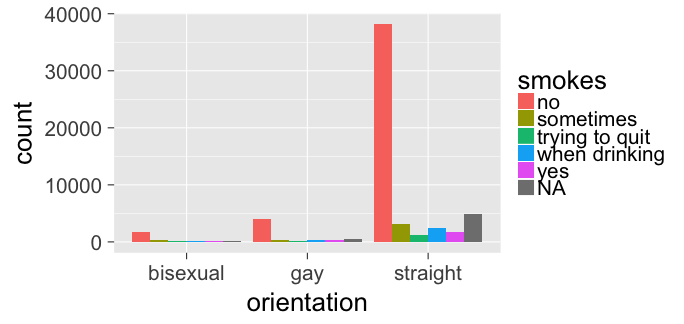
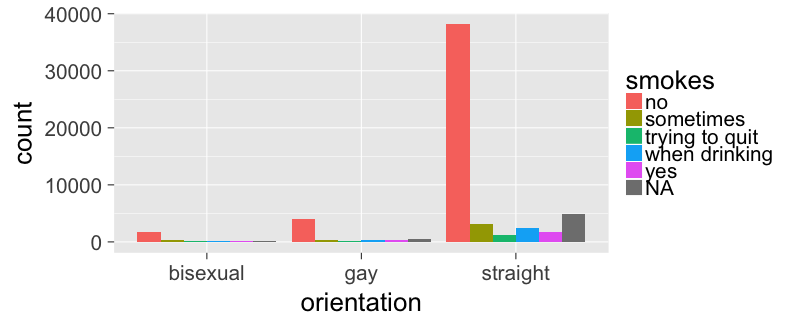
Update slides

diff --git a/docs/slides/slide_deck.html b/docs/slides/slide_deck.html
@@ -49,9 +49,11 @@ class: center, middle
 
 ---
 
+class: center, middle
+
 # Warmup in groups
 
-- Discuss the difference between the `binwidth` and `bins` arguments to `geom_histogram`
+### Discuss the difference between the `binwidth` and the `bins` arguments to `geom_histogram`
 
 ---
 
@@ -63,19 +65,15 @@ class: split-50
 
 ### At this point in the course you should only be adding these packages
 
-.column[
 ### &lt;u&gt;For functions&lt;/u&gt;
 `library(tibble)`&lt;br&gt;
 `library(ggplot2)`&lt;br&gt;
 `library(dplyr)`
-]
-.column[
-&lt;hr style="height:0pt; visibility:hidden;" /&gt;
+
 ### &lt;u&gt;For data&lt;/u&gt;
 `library(nycflights13)`&lt;br&gt;
 `library(fivethirtyeight)`&lt;br&gt;
 `library(gapminder)`
-]
 
 ---
 
@@ -101,7 +99,7 @@ ggplot(data = ______(2)___________,
 ---
 
 
-# Time slept vs day of the week for ONE professor over 100 weeks
+## Time slept vs day of the week for ONE professor over 100 weeks
 
 &lt;img src="figure/box.jpg"  width="900" height="350" alt="Sleep Boxplot"&gt;
 
@@ -204,7 +202,7 @@ Senior | 8
 ```r
 library(ggplot2)
 ggplot(data = class_df, mapping = aes(x = class)) +
-  geom_bar(fill = "black")
+  geom_bar(fill = "lightgreen", color = "black")
 ```
 
 ![](slide_deck_files/figure-html/unnamed-chunk-6-1.png)&lt;!-- --&gt;
@@ -237,7 +235,7 @@ class_freq
 
 ```r
 ggplot(data = class_freq, mapping = aes(x = class, y = count)) +
-  geom_col(fill = "black")
+  geom_col(fill = "lightgreen", color = "black")
 ```
 
 ![](slide_deck_files/figure-html/unnamed-chunk-8-1.png)&lt;!-- --&gt;
@@ -256,7 +254,7 @@ ggplot(data = class_freq, mapping = aes(x = class, y = count)) +
 --
 
 4. Stacked proportional plot
-  - Preferred if &lt;br&gt; numbers of groups in the second variable `\(\le 3\)`
+  - Preferred if &lt;br&gt; number of groups in the second variable `\(\le 3\)`
   
 ---
 
@@ -348,10 +346,10 @@ class: middle, center
 
 # Minute paper
 
-- Write down as much information as you can about what you have learned about using `ggplot2` for graphics
+### Write down as much information as you can about what you have learned about using `ggplot2` for graphics
 
 ---
-  
+
 layout: true
 
 .footer[[Week 04 - Tuesday](https://ismayc.github.io/soc301_s2017/2017/02/21/week-04---tuesday/)]
@@ -713,7 +711,7 @@ class: center, middle
 
 ### Wilkinson (2005) laid out the proposed "Grammar of Graphics"
 
-&lt;img src="figure/graphics.jpg" width="292" style="display: block; margin: auto;" /&gt;
+&lt;img src="figure/graphics.jpg" style="display: block; margin: auto;" /&gt;
 
 
 ---
@@ -722,7 +720,7 @@ class: center, middle
 
 ### Wickham implemented the grammar in R in the `ggplot2` package
 
-&lt;img src="figure/ggplot2.jpg" width="308" style="display: block; margin: auto;" /&gt;
+&lt;img src="figure/ggplot2.jpg" style="display: block; margin: auto;" /&gt;
 
 
 ---
@@ -1914,5 +1912,23 @@ class: center, middle
 });
 if (window.HTMLWidgets) slideshow.on('showSlide', function (slide) {setTimeout(function() {window.dispatchEvent(new Event('resize'));}, 100)});</script>
 
+<script type="text/x-mathjax-config">
+MathJax.Hub.Config({
+  tex2jax: {
+    skipTags: ['script', 'noscript', 'style', 'textarea', 'pre']
+  }
+});
+</script>
+<!-- dynamically load mathjax for compatibility with self-contained -->
+<script>
+(function () {
+  var script = document.createElement('script');
+  script.type = 'text/javascript';
+  script.src  = 'https://cdn.mathjax.org/mathjax/latest/MathJax.js?config=TeX-AMS-MML_HTMLorMML';
+  if (location.protocol !== 'file:' && /^https?:/.test(script.src))
+    script.src  = script.src.replace(/^https?:/, '');
+  document.getElementsByTagName('head')[0].appendChild(script);
+})();
+</script>
   </body>
 </html>
